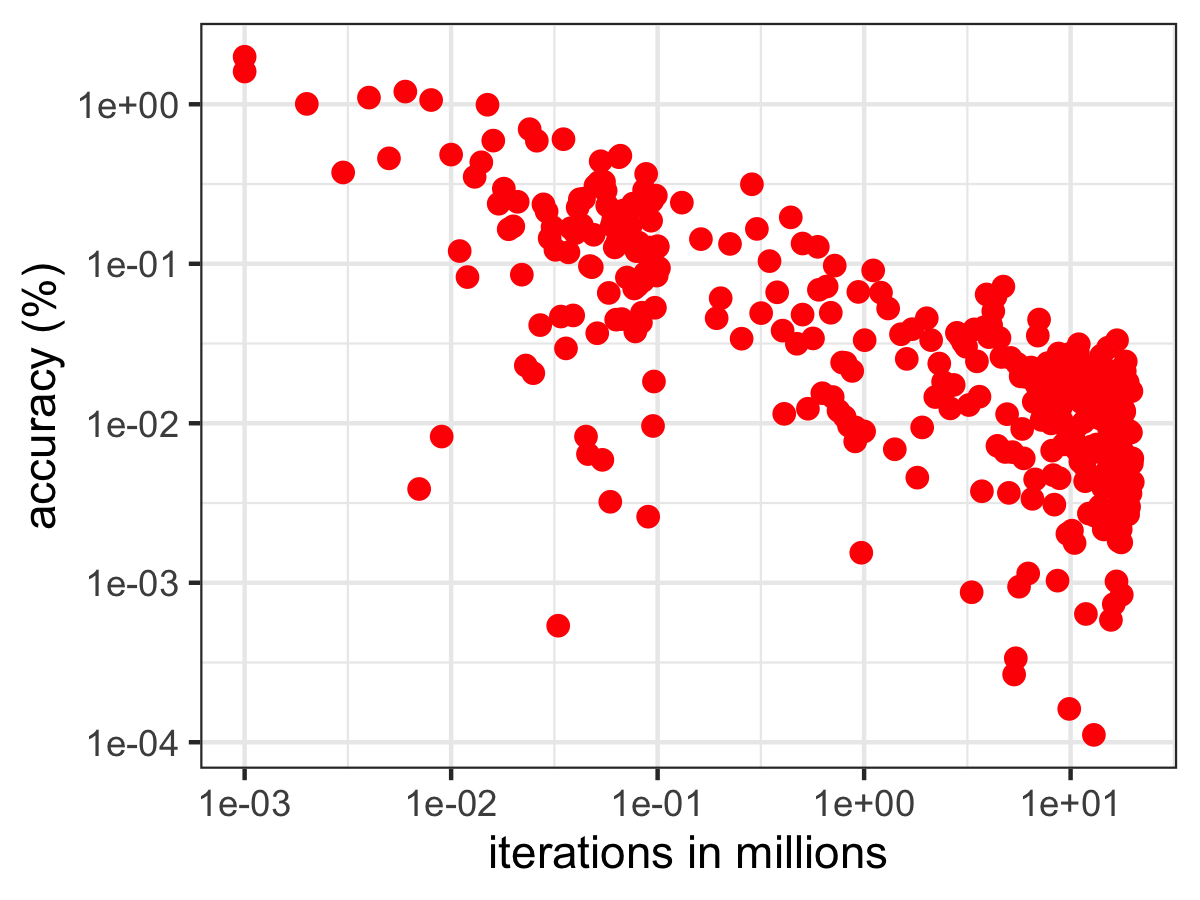
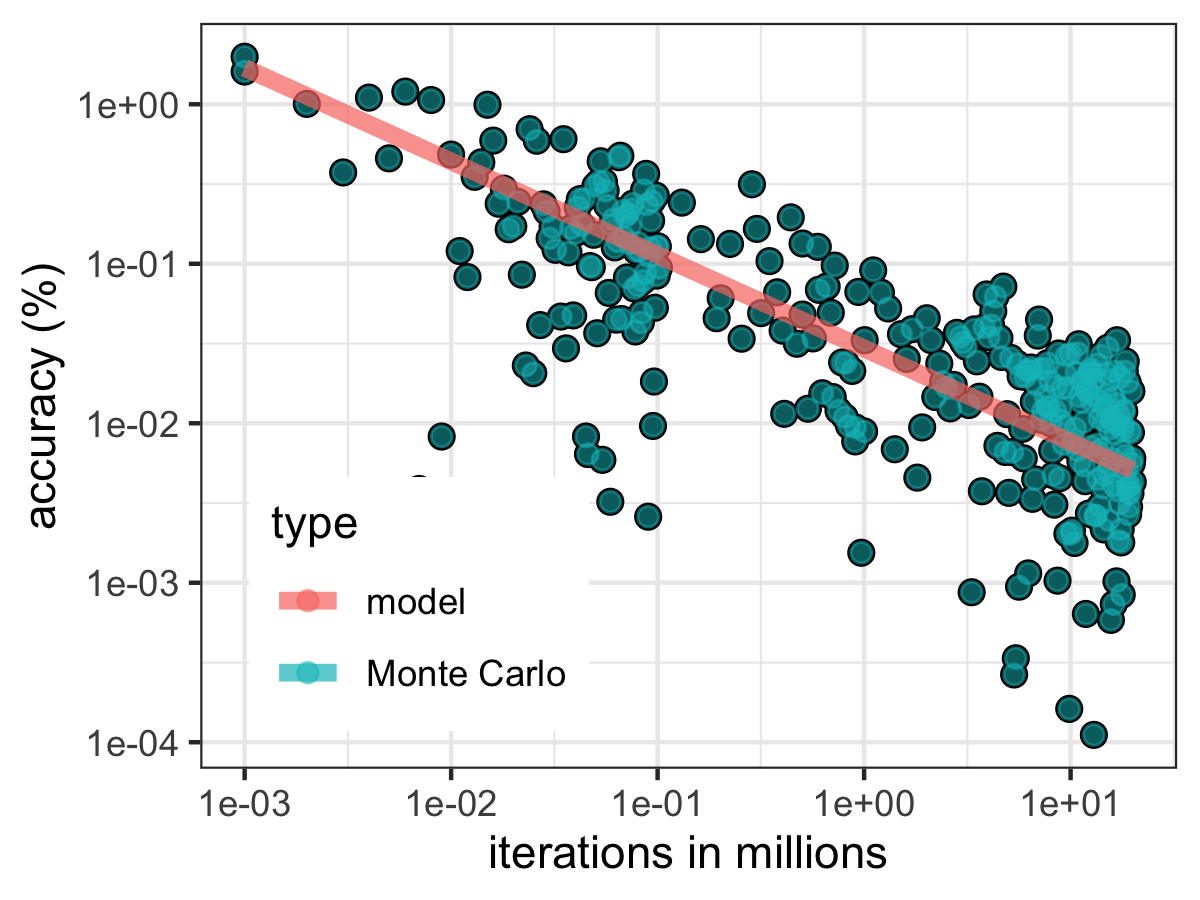
add trend line

diff --git a/README.md b/README.md
@@ -8,7 +8,7 @@ Computing 2 million steps takes about 103 ms. A typical result is `3.142`, so re
 
 ## Model and Accuracy
 
-The accuracy gets better with iterations. We can fit an power law that predicts the accuracy of the generated number. If accuracy **A** needs to be found for **n** iterations, then: **A = 97 n<sub>-0.586</sub>**
+The accuracy gets better with iterations. We can fit an power law that predicts the accuracy of the generated number. If accuracy **A** needs to be found for **n** iterations, then: **A = 97 n<sup>-0.586</sup>** - pretty slow divergence.
 
 
 ![Accuracy of Pi generated by Monte Carlo increases with number of iterations](images/pi-accuracy.png)
